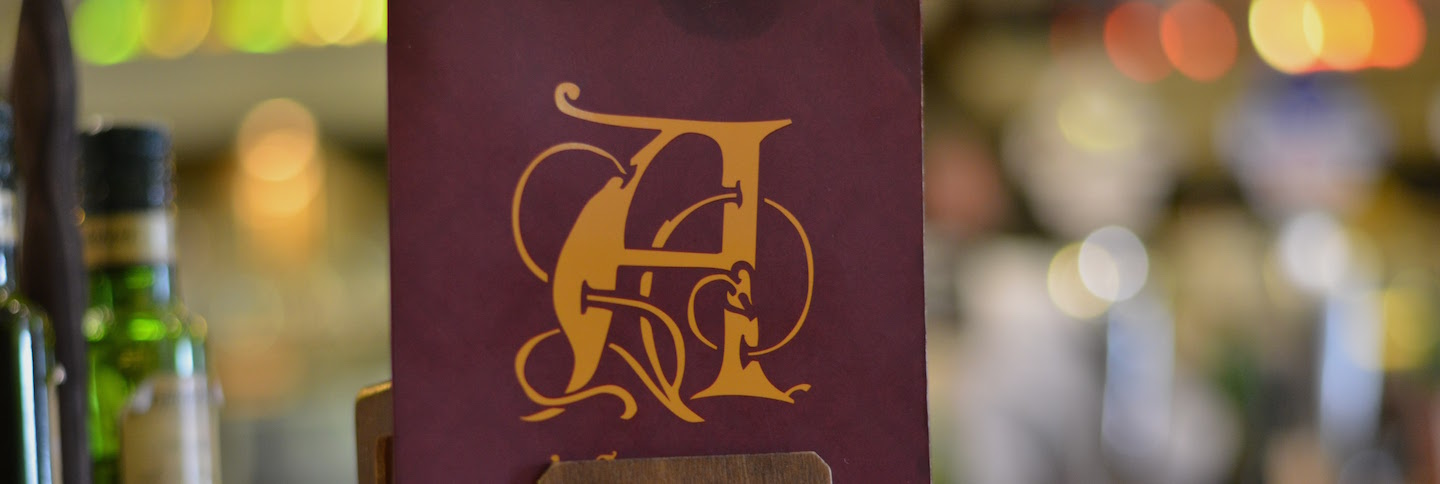
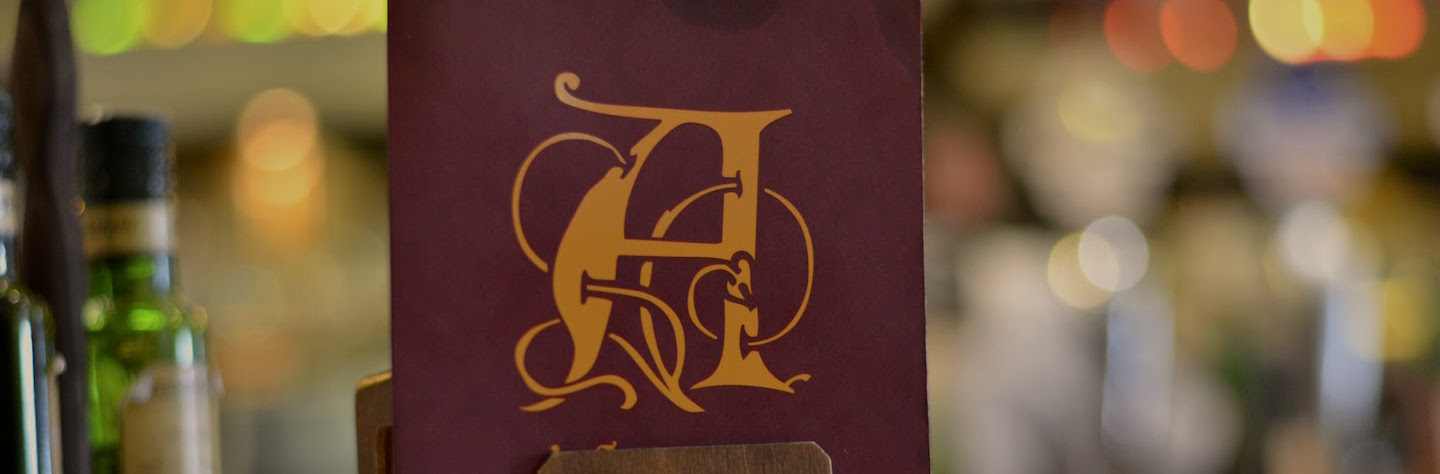
fix hero mini

diff --git a/_scss/layout/up_t01.scss b/_scss/layout/up_t01.scss
@@ -297,36 +297,32 @@ a.pure-button-primary {
 }
 
 .hero-mini {
-    /* background: transparent url('assets/hero/kimchi-jars-hero.jpg') 0 0 no-repeat;
-    */
-
     background: transparent url('/assets/hero/a.jpg') 0 0 no-repeat;
     background-size: cover;
-    filter: progid:DXImageTransform.Microsoft.AlphaImageLoader('assets/hero/stirfry-squid-veggies-hero.jpg', sizingMethod='scale');
+    filter: progid:DXImageTransform.Microsoft.AlphaImageLoader('assets/hero/a.jpg', sizingMethod='scale');
     z-index: 1;
     overflow: hidden;
     width: 100%;
     height: 360px;
     margin-bottom: 50px;
     display: table;
+    position: relative;
     .header {
         margin: 0 auto;
         text-align: center;
-        width: 80%;
-        height: 50%;
-        margin: 1em auto;
+        margin: 0 auto;
         position: absolute;
-        top: 140px;
+        width: 90%;
+        top: 110px;
         left: 0;
-        bottom: 0;
         right: 0;
         text-align: center;
         h2 {
             color: #fff;
-            font-size: 2.4em;
-            font-weight: 300;
+            font-size: 2.1em;
+            font-weight: 400;
             text-transform: uppercase;
-            line-height: 1;
+            line-height: 1.2;
             text-shadow: 0 0 15px rgba(0,0,0,.5);
             letter-spacing: 14px;
             border-top: 1px solid rgba(255,255,255,.4);
@@ -550,6 +546,13 @@ section {
     }
     .home-menu {
         font-size: .9em;
+    }
+    .hero-mini {
+        height: 320px;
+        .header {
+            font-size: 18px;
+            top: 60px;
+        }
     }
 }
 /*
